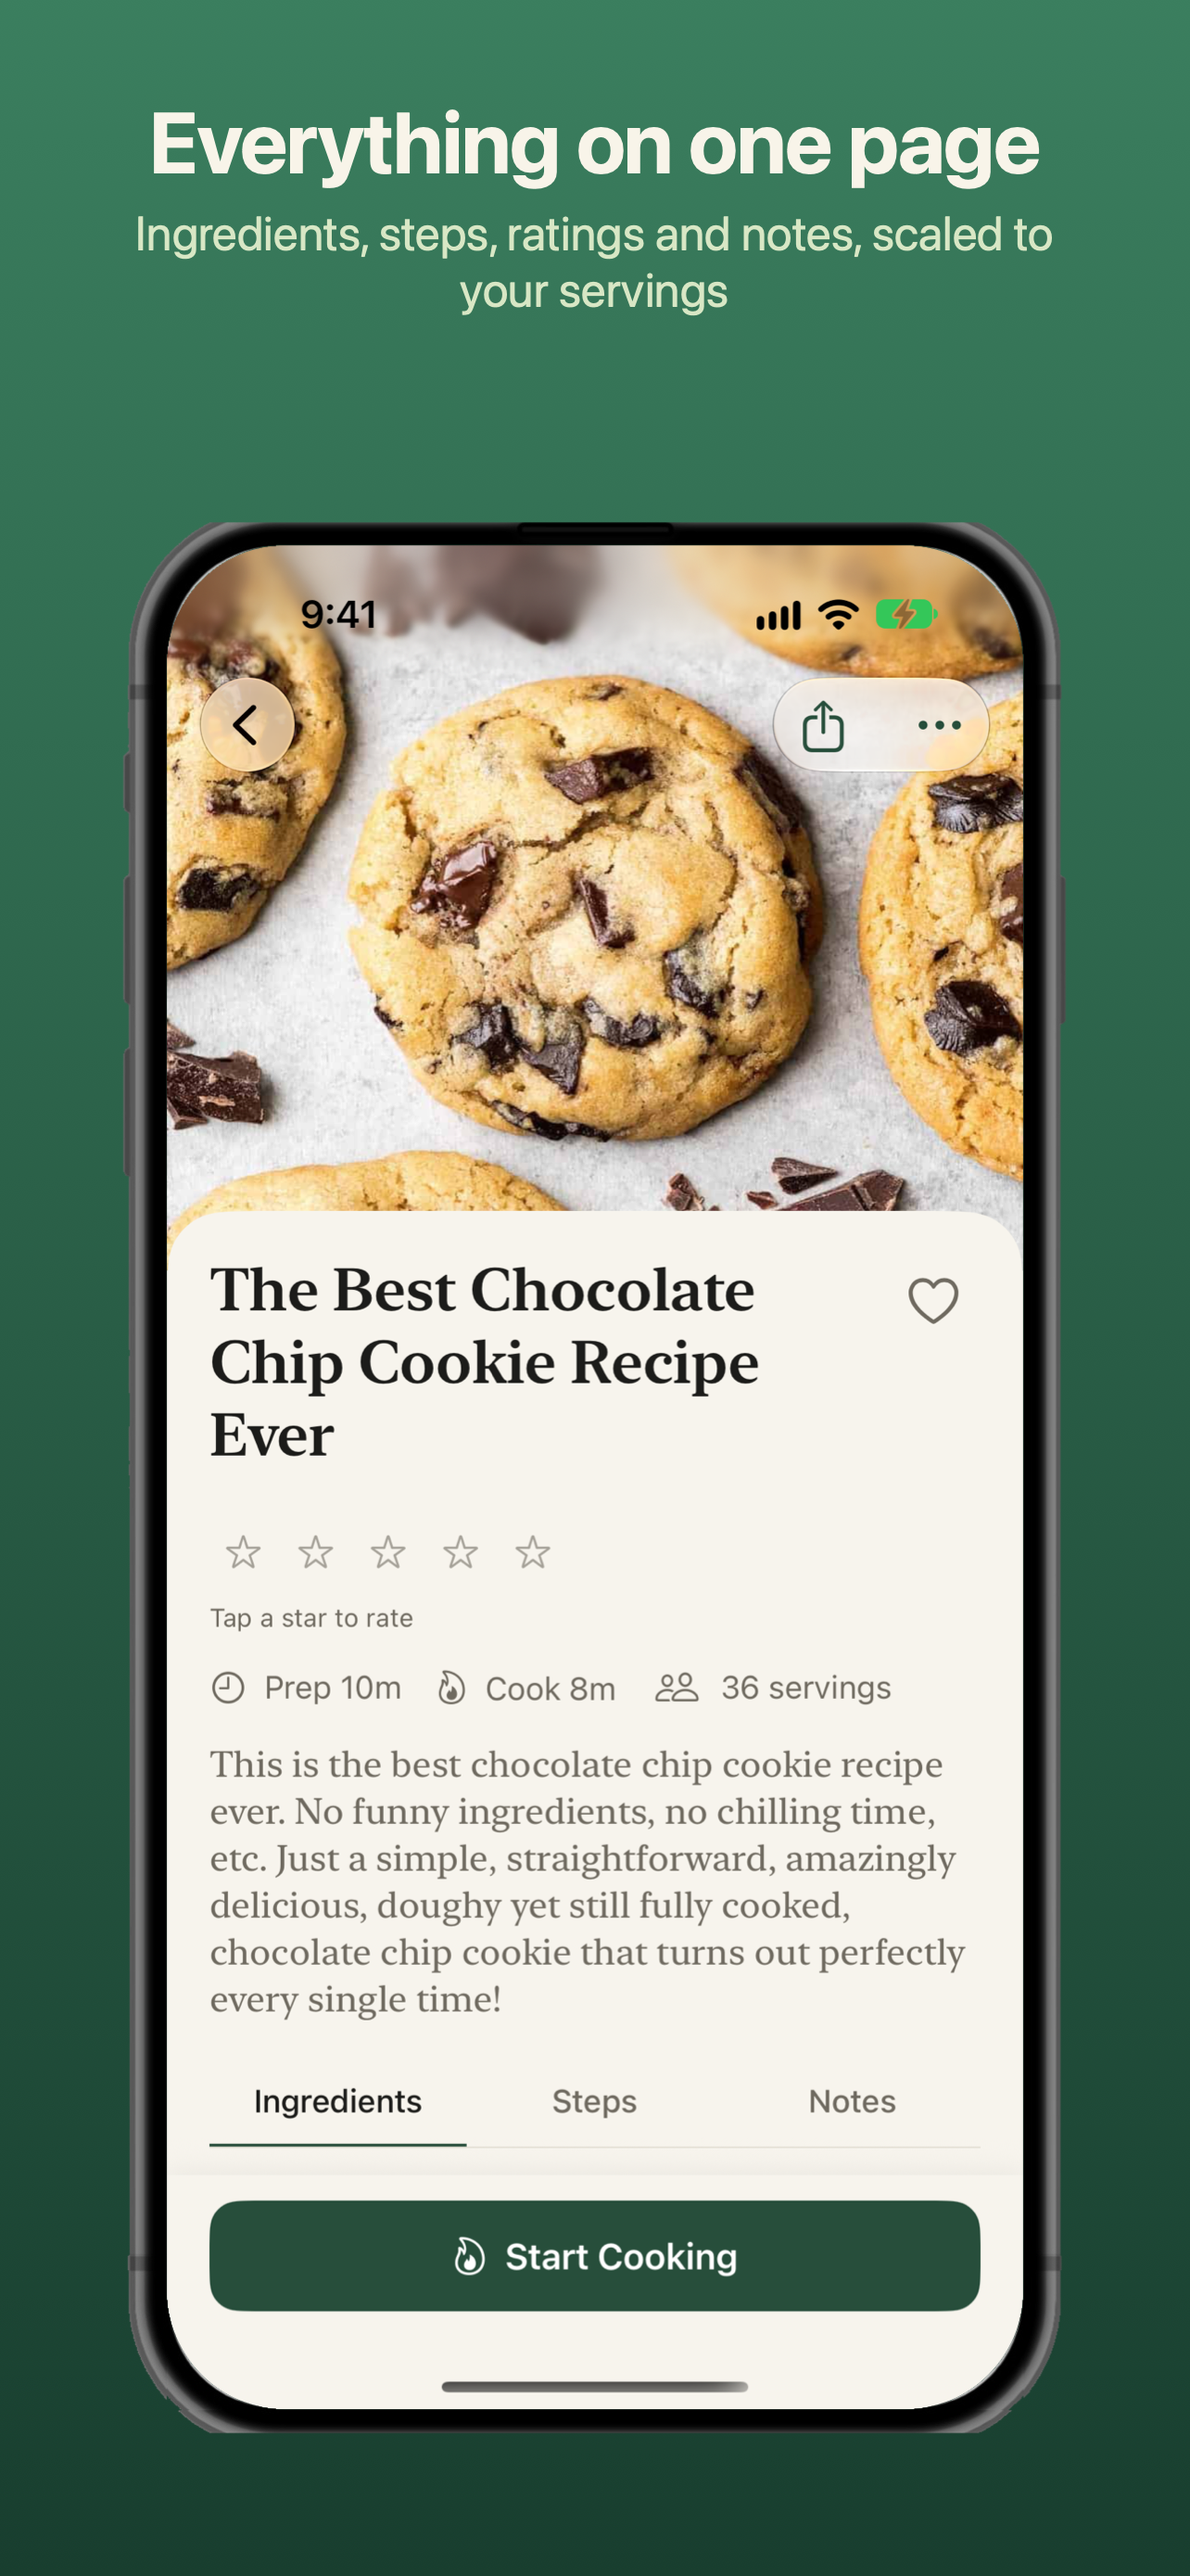
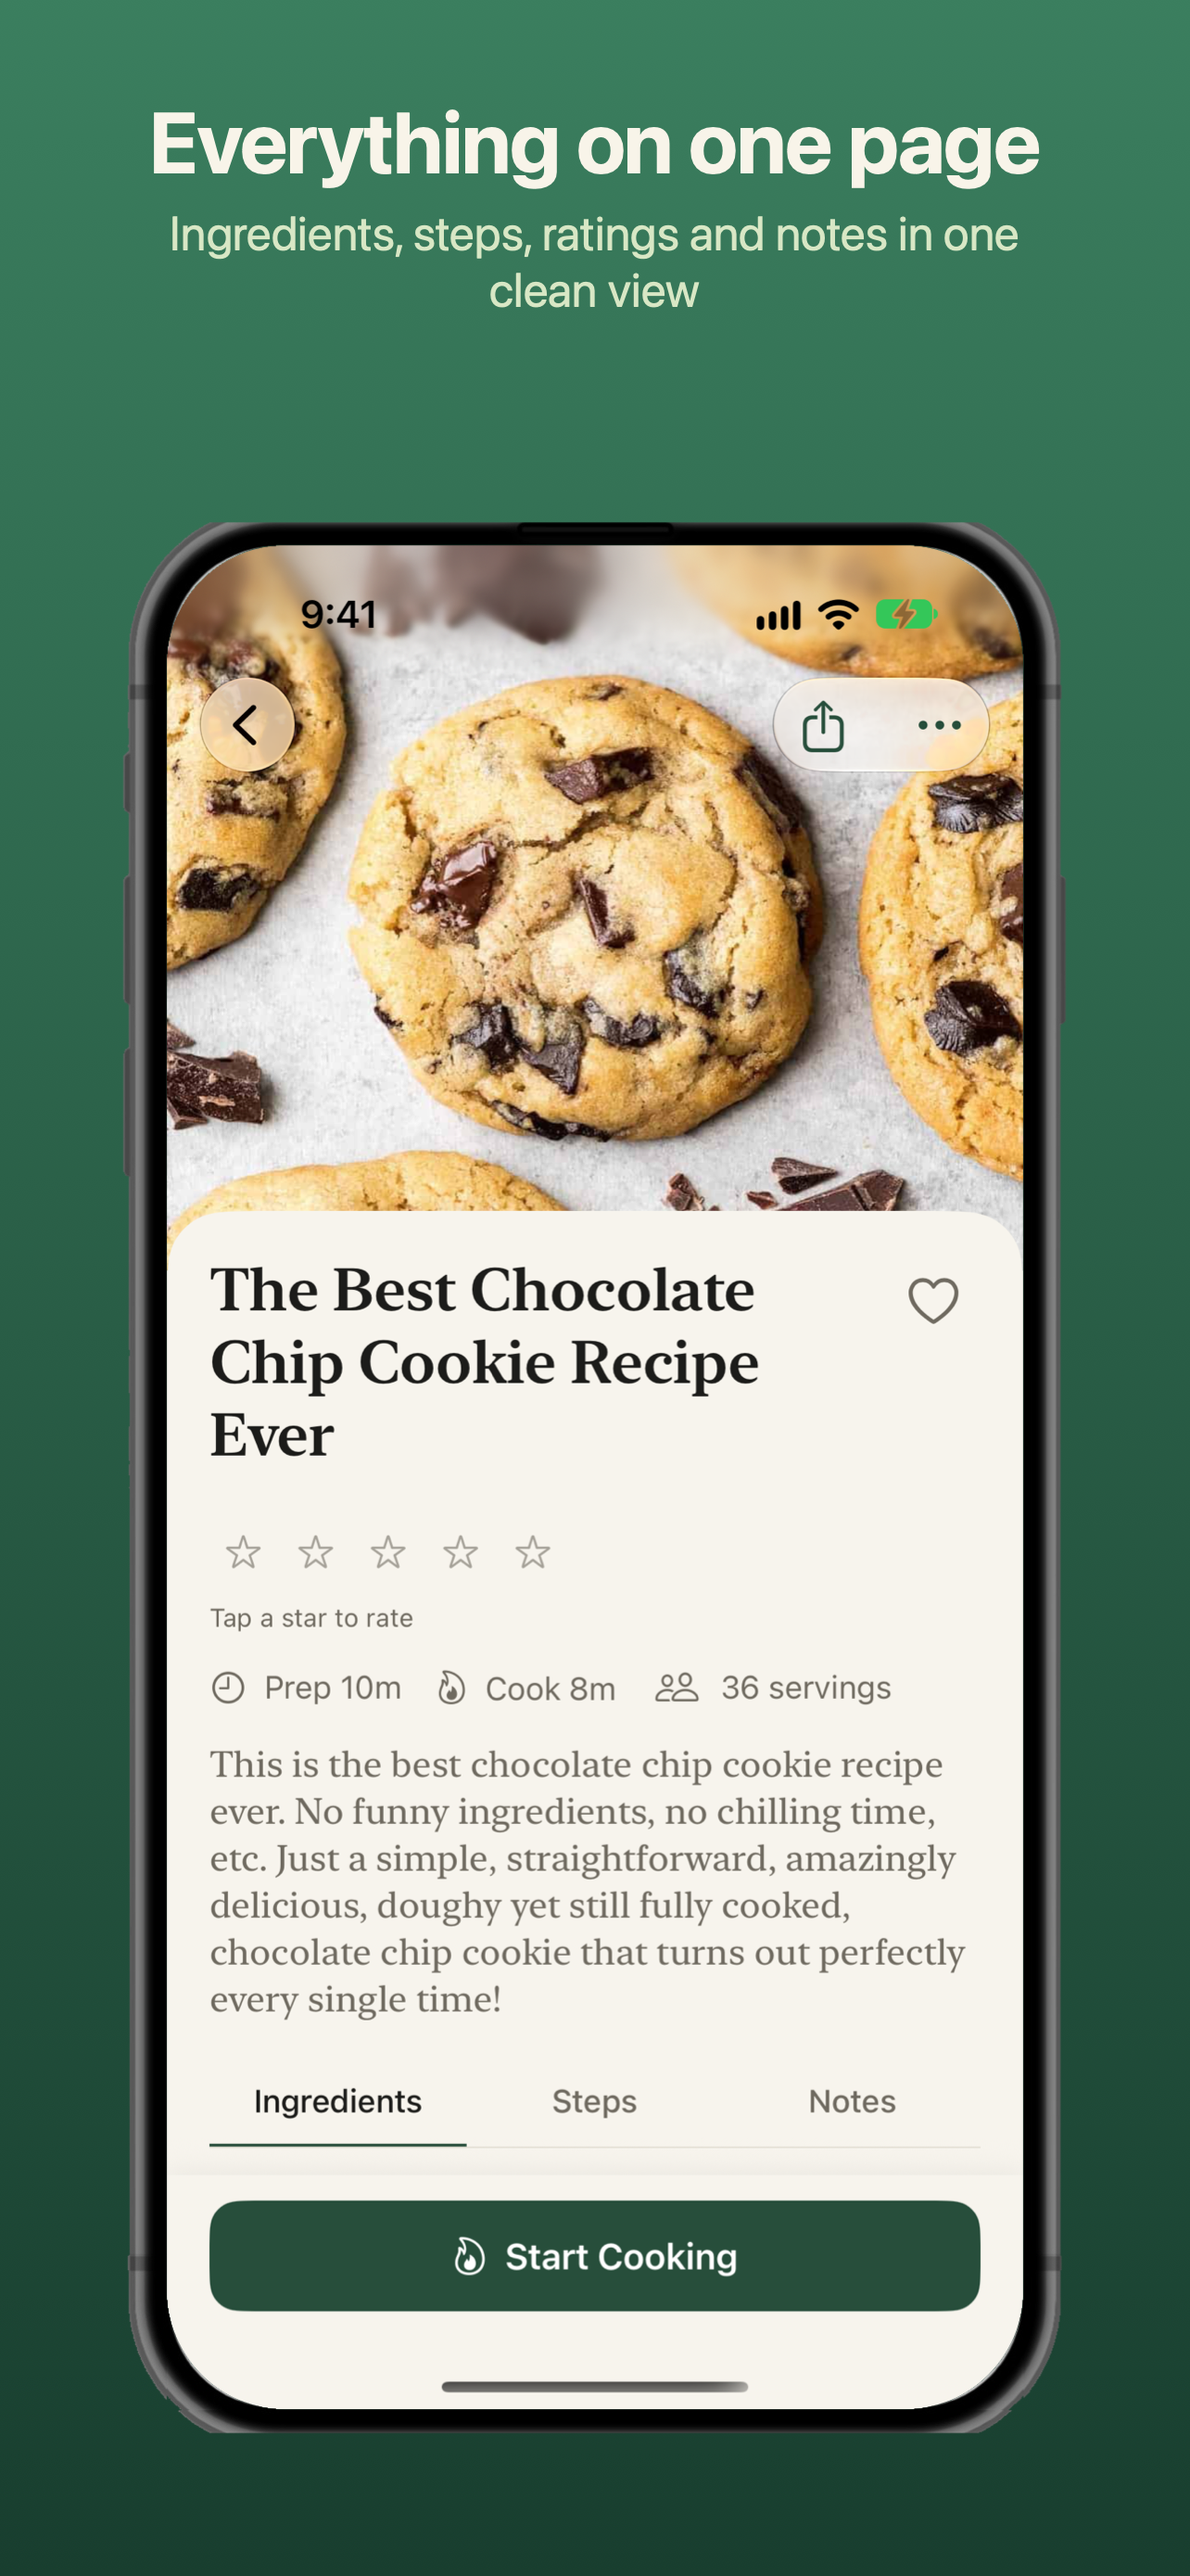
App Store listing copy; drop unsupported PDF/scaling claims

Changed region(s): [[0.1246, 0.0619, 0.8723, 0.1238]]

diff --git a/IOS/AppStore/AppStoreListing.md b/IOS/AppStore/AppStoreListing.md
@@ -1,0 +1,129 @@
+# Spoonmate — App Store Connect Listing Copy
+
+Paste these into App Store Connect (iPhone only). Character limits are Apple's; counts are current as of 1 October 2026.
+Screenshots: `Screenshots/iphone-6.9/` (required) and `iphone-6.5/`. Submission steps: [`../APP_STORE.md`](../APP_STORE.md).
+
+---
+
+## App name (max 30)
+
+```
+Spoonmate
+```
+
+> 9 characters. Names are first come, first served; if it is taken when you create the record, fallbacks: `Spoonmate Recipes`, `Spoonmate: Recipe Keeper`.
+
+## Subtitle (max 30)
+
+```
+Recipes on your own server
+```
+
+> 26 characters. The subtitle is indexed for search at a higher weight than the keyword field, so it carries the highest-intent term ("recipes") and the differentiator (your own server). Alternative: `Self-hosted recipe manager` (26).
+
+## Promotional text (max 170, editable any time without review)
+
+1.0 (recommended, 161 characters):
+
+Save recipes from any link, plan your week, build the shopping list and cook step by step with real kitchen timers. All on your own server, and it works offline.
+
+Alternates:
+
+- (147) Your recipe box, on your own server. Import from a link or photo, plan the week, shop from the plan and cook hands-free. Free, no ads, no tracking.
+- (153) Import from a link, cook with ringing timers, plan your week and shop from the plan. Spoonmate keeps your recipes on a server you run, and works offline.
+
+## Keywords (max 100 bytes, comma-separated, no spaces)
+
+```
+cookbook,meal plan,shopping list,cooking,kitchen,import,grocery,timer,self-hosted,offline,planner
+```
+
+> 97 bytes, 11 terms. No overlap with the name, subtitle or category (Food & Drink): `recipe` and `recipes` come from the subtitle, `spoonmate` from the name. No singular/plural pairs and no competitor names (guideline 2.3.7).
+
+## Description (max 4000, not indexed for search; only the first three lines show before "more")
+
+Spoonmate is a recipe app for people who like to keep their recipes to themselves. It connects straight to a Spoonmate server that you run at home (or anywhere you like), so your collection stays yours: no Spoonmate account, no ads, no tracking.
+
+SAVE RECIPES FROM ANYWHERE
+• Paste a link, or share a page from Safari with the Save to Spoonmate extension
+• Scan a photo or screenshot of a recipe
+• Check the ingredients and method before you save, or type a recipe in yourself
+
+COOK WITHOUT FUSS
+• Step-by-step cooking mode keeps the screen awake and shows one step at a time
+• Start timers straight from the method ("simmer for 20 minutes")
+• Timers ring like the Clock app, with a countdown on your Lock Screen and Dynamic Island
+
+PLAN THE WEEK, SHOP ONCE
+• Drop recipes into a weekly meal plan
+• Turn the plan, or a single recipe, into a shopping list that merges duplicates
+• Group the list by aisle or by recipe, and tick things off in the shop
+
+WORKS OFFLINE
+• Your whole library and its pictures are kept on your phone, so the recipe is there even when the signal isn't
+• Favourites, ratings and shopping-list changes you make offline sync when you reconnect
+
+YOURS TO ARRANGE
+• Collections, favourites, star ratings and notes
+• Search by name, ingredient or tag
+• Light and dark mode and five colour themes
+• Share a recipe as text, or a collection as a link
+• Delete your account from the app whenever you like
+
+REQUIRES A SPOONMATE SERVER
+Spoonmate is free, open-source software that you run yourself, for example in Docker or on Unraid. Setup takes a few minutes: see github.com/Juzzycooks/recipemanager. Spoonmate includes no recipes of its own and needs an existing server to sign in to.
+
+PRIVATE BY DESIGN
+No analytics, no advertising, no third-party code. The app talks only to the server you configure.
+
+## What's New (version 1.0)
+
+```
+First release. Save recipes from a link, photo or Safari, cook step by step with real kitchen timers, plan your week, shop from the plan, and take it all offline.
+```
+
+## Other fields
+
+| Field | Value |
+|:--|:--|
+| **Primary category** | Food & Drink |
+| **Secondary category** | Productivity |
+| **Support URL** | https://github.com/Juzzycooks/recipemanager/issues |
+| **Marketing URL** | https://github.com/Juzzycooks/recipemanager |
+| **Privacy Policy URL** | https://github.com/Juzzycooks/recipemanager/blob/main/PRIVACY.md |
+| **Copyright** | 2026 Justin Rahme |
+| **Price** | Free |
+| **Availability** | All countries and regions (iPhone only; not offered on iPad, Mac or Vision Pro) |
+| **Age rating** | Expect 4+. No mature content, no unrestricted web access; comments are visible only to people on the same private server. |
+| **App Privacy** | Data Not Collected; no tracking. See `../APP_STORE.md` section 5. |
+| **Export compliance** | Uses only standard HTTPS: `ITSAppUsesNonExemptEncryption = NO`, already set. |
+
+## Screenshot plan (6.9" and 6.5", upload in this order)
+
+| # | File | Caption | Subtitle |
+|:--|:--|:--|:--|
+| 1 | `01-home.png` | Your recipes, beautifully kept | Quick picks, collections and your week at a glance |
+| 2 | `02-recipe.png` | Everything on one page | Ingredients, steps, ratings and notes in one clean view |
+| 3 | `03-cooking.png` | Cook hands-free, step by step | Big text, a screen that stays awake and real kitchen timers |
+| 4 | `04-collections.png` | Organise your way | Group recipes into collections for weeknights, slow cooking and more |
+| 5 | `05-collection.png` | Every collection, one tap away | Browse a collection as a grid of photos |
+| 6 | `06-search.png` | Find dinner fast | Search by name, ingredient or tag |
+| 7 | `07-all-recipes.png` | Your whole library, offline too | Browse everything, even without a connection |
+| 8 | `08-add.png` | Save recipes from anywhere | Import from a link, scan a photo or write your own |
+| 9 | `09-settings.png` | Make it yours | Light, dark and colour themes |
+| 10 | `10-sign-in.png` | Your server. Your recipes. | Free. No ads, no tracking. It talks only to the server you run |
+
+Captions live in `Screenshots/generate.sh`; edit there and re-run it to change them. Apple shows the first three slides in search results, so 1 to 3 carry the pitch.
+
+## App Review notes (App Store Connect → App Review Information)
+
+> Spoonmate is a client for a self-hosted recipe server (open source: github.com/Juzzycooks/recipemanager). Users run their own server, so the sign-in screen asks for a server address. A demo server with sample data is running for review:
+>
+> Server: `<demo server URL>`
+> Username: `<reviewer username>`   Password: `<reviewer password>`
+>
+> After signing in you can browse recipes, open one and tap Start Cooking (timers ring like the Clock app; alarms and notifications will ask permission), add a recipe from a link, build a meal plan and a shopping list, and try offline mode with airplane mode. Account deletion is under Profile → Account → Delete account. Please use the demo account for that, as it is reset daily.
+>
+> The app collects no data, has no analytics or advertising, and talks only to the server the user enters.
+
+Fill in the three placeholders once your demo server is up. Use a non-admin account.

diff --git a/IOS/APP_STORE.md b/IOS/APP_STORE.md
@@ -77,7 +77,7 @@ Paste-ready drafts. Adjust the tone freely.
 | **Subtitle** (30) | Recipes on your own server |
 | **Category** | Food & Drink (secondary: Productivity) |
 | **Promotional text** (170) | Import recipes from any link, plan your week, build the shopping list and cook step by step, all on your own server, and even offline. |
-| **Keywords** (100) | `recipe,cookbook,meal plan,shopping list,cooking,kitchen,import,grocery,timer,self-hosted` |
+| **Keywords** (100) | `cookbook,meal plan,shopping list,cooking,kitchen,import,grocery,timer,self-hosted,offline,planner` |
 | **Support URL** | https://github.com/Juzzycooks/recipemanager/issues |
 | **Marketing URL** | https://github.com/Juzzycooks/recipemanager |
 | **Privacy Policy URL** | https://github.com/Juzzycooks/recipemanager/blob/main/PRIVACY.md |
@@ -91,7 +91,7 @@ Paste-ready drafts. Adjust the tone freely.
 > Spoonmate is a recipe app for people who like to keep their recipes to themselves. It connects to a Spoonmate server that you run at home (or anywhere you like), so your collection stays yours.
 >
 > **Save recipes from anywhere**
-> Paste a link, share a page from Safari, scan a photo or screenshot, import a PDF, or type it in yourself. Spoonmate reads the ingredients and method for you, and you can check them before saving.
+> Paste a link, share a page from Safari, scan a photo or screenshot, or type it in yourself. Spoonmate reads the ingredients and method for you, and you can check them before saving.
 >
 > **Cook without fuss**
 > Step-by-step cooking mode keeps the screen on, shows one step at a time, and starts timers straight from the method ("simmer for 20 minutes"). Timers ring like the Clock app, with a countdown on your Lock Screen.
@@ -184,3 +184,5 @@ Also tick **"Sign-in required"** and enter the same credentials in the demo-acco
 - [ ] Submit for Review; release manually or automatically after approval
 
 Finished 6.9" and 6.5" screenshot slides are in `IOS/AppStore/Screenshots/` (see its README).
+
+Paste-ready listing copy with alternates and the screenshot captions: [`AppStore/AppStoreListing.md`](AppStore/AppStoreListing.md).
